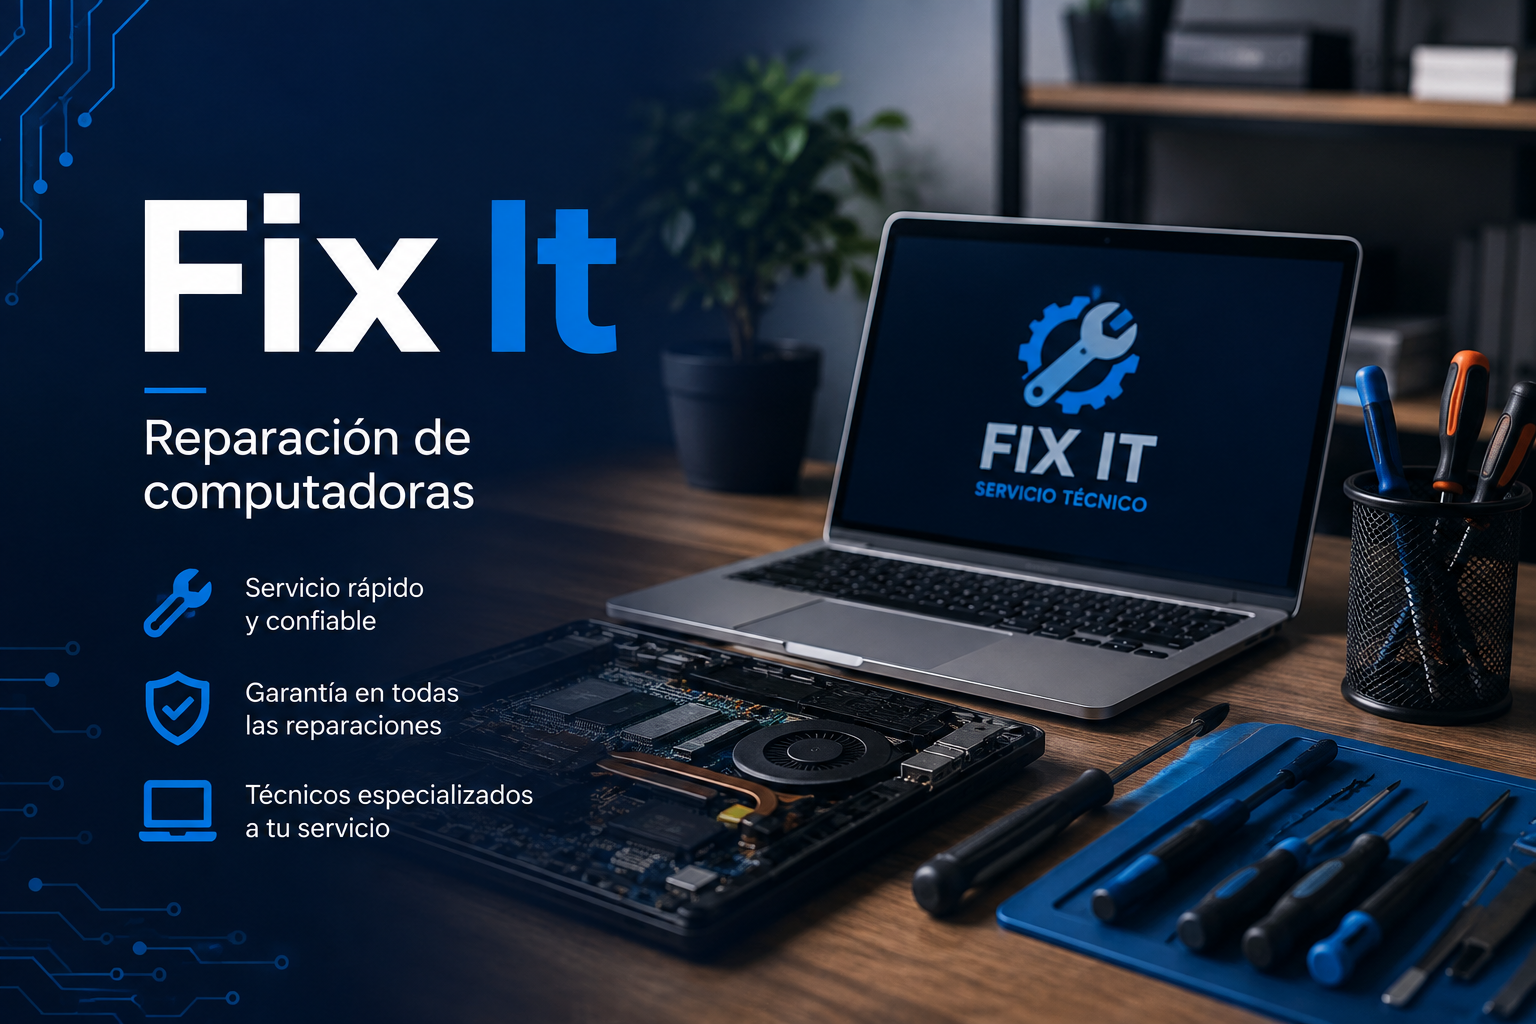
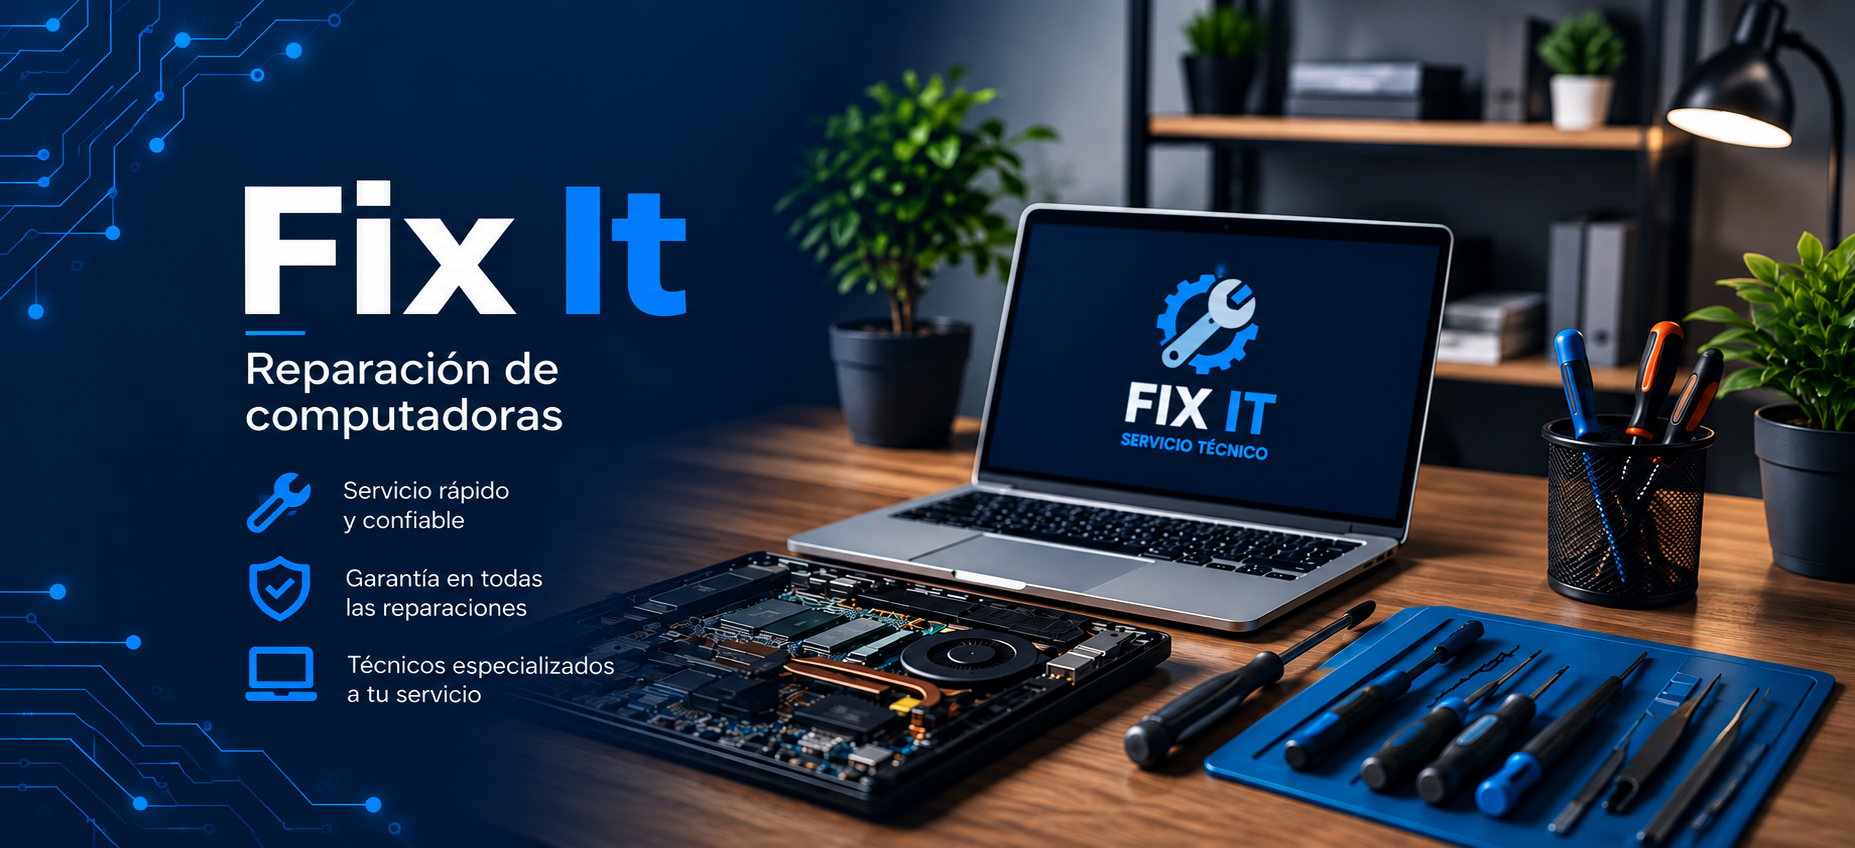
feat: se agrego un pseudo selector para hacer mas intuitiva la barra de navegacion, aparte de que se reducio el tamaño del home y se minimizo la informacion de cada endpoint-GNR

diff --git a/front/vite-project/src/components/Navbar/Navbar.jsx b/front/vite-project/src/components/Navbar/Navbar.jsx
@@ -1,5 +1,5 @@
 import { useState } from "react";
-import { Link, useNavigate } from "react-router-dom";
+import { NavLink, useNavigate } from "react-router-dom";
 import styled from "styled-components";
 import userIcon from "../../assets/user.png";
 import { useAuth } from "../../context/AuthContext";
@@ -25,7 +25,7 @@ const NavItem = styled.li`
   padding: 20px;
 `;
 
-const NavLink = styled(Link)`
+const NavLinkStyled = styled(NavLink)`
   color: black;
   text-decoration: none;
   font-weight: 500;
@@ -33,6 +33,10 @@ const NavLink = styled(Link)`
 
   &:hover {
     color: #ffd700;
+  }
+  &.active {
+    color: #ffd700;
+    font-weight: 700;
   }
 `;
 
@@ -93,7 +97,7 @@ const MenuText = styled.p`
   font-size: 14px;
 `;
 
-const MenuLink = styled(Link)`
+const MenuLink = styled(NavLink)`
   display: block;
   text-decoration: none;
   text-align: center;
@@ -170,13 +174,13 @@ const Nav_bar = () => {
     <Nav>
       <NavList>
         <NavItem>
-          <NavLink to="/home">Inicio</NavLink>
+          <NavLinkStyled to="/home">Inicio</NavLinkStyled>
         </NavItem>
         <NavItem>
-          <NavLink to="/appointment/schedule">Solicitar un turno</NavLink>
+          <NavLinkStyled to="/appointment/schedule">Solicitar un turno</NavLinkStyled>
         </NavItem>
         <NavItem>
-          <NavLink to="/mis-turnos">Mis turnos</NavLink>
+          <NavLinkStyled to="/mis-turnos">Mis turnos</NavLinkStyled>
         </NavItem>
 
         <UserMenuContainer>

diff --git a/front/vite-project/src/views/Appointment/appointment_schedule.jsx b/front/vite-project/src/views/Appointment/appointment_schedule.jsx
@@ -22,12 +22,6 @@ const Form = styled.form`
   box-shadow: 0px 4px 12px rgba(0, 0, 0, 0.1);
 `;
 
-const Title = styled.h2`
-  text-align: center;
-  margin-bottom: 20px;
-  color: #333;
-`;
-
 const InputGroup = styled.div`
   display: flex;
   flex-direction: column;
@@ -71,7 +65,9 @@ const SubmitButton = styled.button`
 `;
 
 const TimeAvailable = styled.h1`
-
+  margin-bottom: 28px;
+  font-weight: 500;
+  color: #000000;
 `;
 
 export const CreateTurn = () => {
@@ -120,9 +116,10 @@ export const CreateTurn = () => {
 
   return (
     <PageWrapper>
+      <TimeAvailable>
+        Horarios de 10 a 18 hs
+      </TimeAvailable>
       <Form onSubmit={handle_submit}>
-        <Title>Crear turno</Title>
-
         <InputGroup>
           <Input type="date" name="date" onChange={handle_input} value={data.date} />
           {errors.date && <ErrorLabel>{errors.date}</ErrorLabel>}
@@ -135,9 +132,6 @@ export const CreateTurn = () => {
 
         <SubmitButton type="submit">Aceptar</SubmitButton>
       </Form>
-      <TimeAvailable>
-        Horarios de 10 a 18 hs
-      </TimeAvailable>
     </PageWrapper>
   );
 };

diff --git a/front/vite-project/src/views/MisTurnos.jsx b/front/vite-project/src/views/MisTurnos.jsx
@@ -14,12 +14,6 @@ const Container = styled.div`
   box-shadow: 0px 4px 12px rgba(0, 0, 0, 0.1);
 `;
 
-const Title = styled.h2`
-  text-align: center;
-  margin-bottom: 20px;
-  color: #333;
-`;
-
 const TurnCard = styled.div`
   background: #fff;
   border-radius: 10px;
@@ -104,8 +98,6 @@ const MisTurnos = () => {
 
   return (
     <Container>
-      <Title>Mis turnos</Title>
-
       {turnos.length === 0 ? (
         <p>No tienes turnos</p>
       ) : (

diff --git a/front/vite-project/src/views/Home/Home.css b/front/vite-project/src/views/Home/Home.css
@@ -1,19 +1,22 @@
 .homeContainer {
-  position: relative;
   width: 100%;
+  height: 100%;
+  overflow: hidden;
 }
 
 .imageContainer {
   position: relative;
   width: 100%;
+  height: 100%;
+  overflow: hidden;
+  background-color: #061a30;
 }
 
 .homeImage {
   width: 100%;
-  height: auto;
+  height: 100%;
   display: block;
-  position: relative;
-  z-index: 1;
+  object-fit: contain;
 }
 
 .appointmentButton {

diff --git a/front/vite-project/src/index.css b/front/vite-project/src/index.css
@@ -10,22 +10,23 @@ body,
   margin: 0;
   padding: 0;
   width: 100%;
-  min-height: 100%;
+  height: 100%;
 }
 
 body {
   min-width: 320px;
-  min-height: 100vh;
+  overflow: hidden;
   font-family: "Inter", sans-serif;
 }
 
 .app {
-  min-height: 100vh;
+  height: 100vh;
   display: flex;
   flex-direction: column;
 }
 
 .main-content {
   flex: 1;
-  width: 100%;
+  min-height: 0;
+  overflow: hidden;
 }
